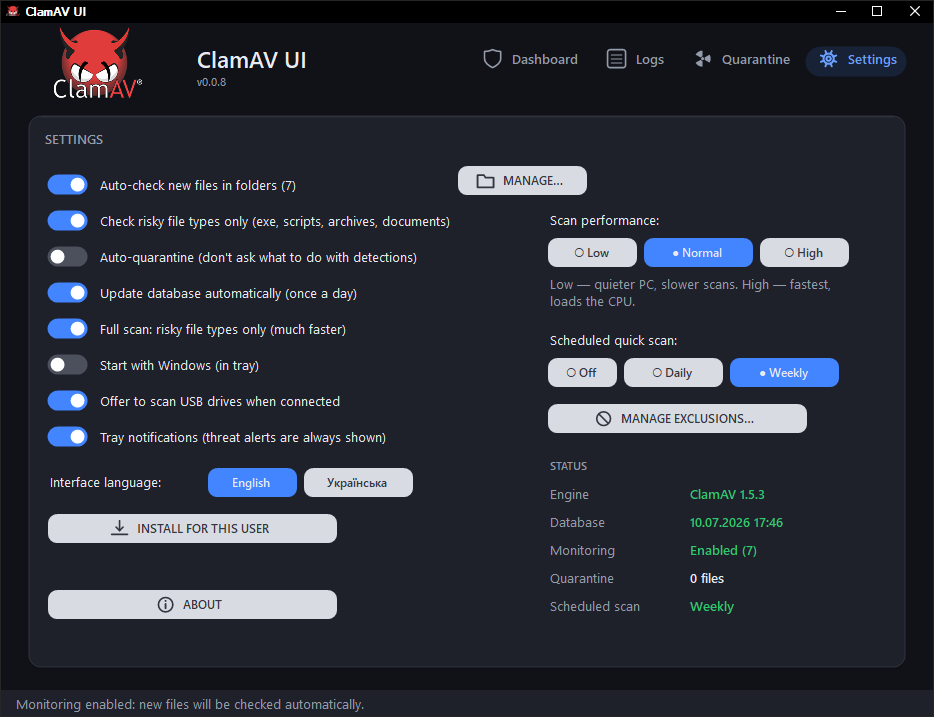
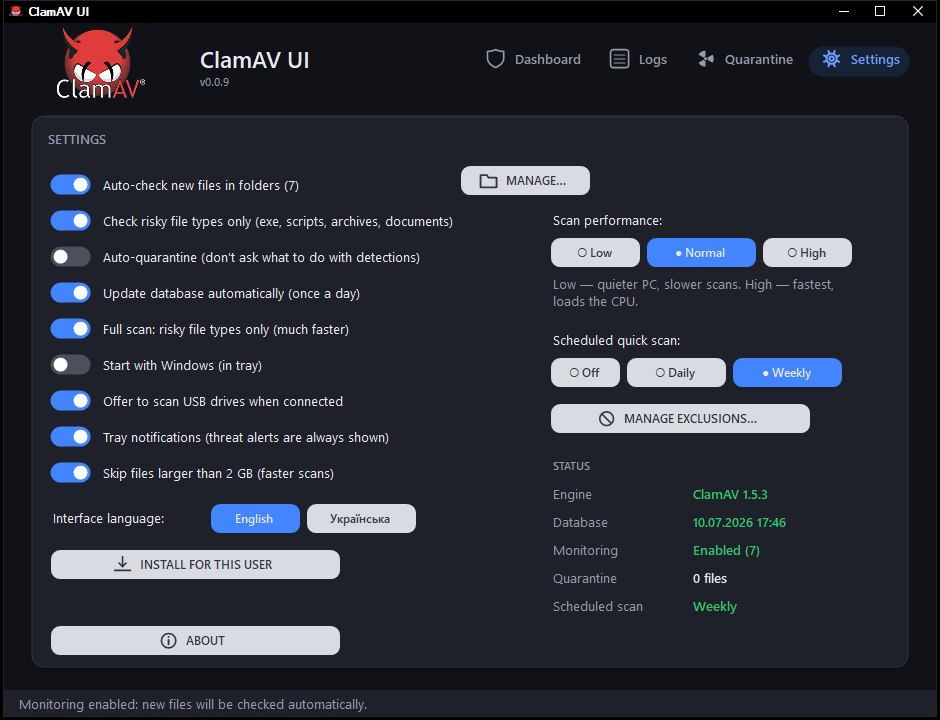
Add "Skip large files" option to settings and update scan limits
- Introduced a toggle in settings to skip files larger than 2 GB for faster scans.
- Updated scan limit arguments to accommodate the new setting.
- Enhanced UI to reflect the new option and its functionality.
- Added tests to verify behavior of scan limits with the new setting.

diff --git a/src/MainForm.Scan.cs b/src/MainForm.Scan.cs
@@ -58,12 +58,16 @@ namespace ClamAVUI
             return chkQuarantine.Checked ? " --move=" + Quote(quarDir) : "";
         }
 
-        // Limits so clamscan doesn't bog down on gigabyte-sized files and deep archives —
-        // those used to make a full scan "hang" on a single file for minutes. Malware that
-        // ClamAV catches is almost always small, so this barely affects detection.
-        internal static string ScanLimitsArg()
+        // Limits so clamscan doesn't bog down on deep archives. The per-file/scan
+        // size cap is user-controlled (the "skip large files" toggle): 2 GB when on,
+        // unlimited when off. The rest always apply — max-scantime caps time per
+        // object, so even a ~2 GB file can't hang the scan for minutes. (Before 0.0.9
+        // the cap was a fixed 50 MB.) Malware ClamAV catches is almost always small.
+        internal static string ScanLimitsArg(bool skipBig)
         {
-            return " --max-filesize=50M --max-scansize=100M --max-recursion=6 --max-files=5000"
+            string size = skipBig ? "2000M" : "0"; // 0 = unlimited in ClamAV
+            return " --max-filesize=" + size + " --max-scansize=" + size
+                 + " --max-recursion=6 --max-files=5000"
                  + " --max-scantime=20000"; // no more than 20s per object (skips "heavy" files faster)
         }
 
@@ -599,13 +603,14 @@ namespace ClamAVUI
 
         void WriteClamdConf()
         {
+            // same size cap as ScanLimitsArg: 2 GB when "skip large files" is on, else 0 = unlimited
+            string size = chkSkipBig.Checked ? "2000M" : "0";
             File.WriteAllText(Path.Combine(clamDir, "clamd.conf"),
                 "TCPSocket " + ClamdPort + "\r\n" +
                 "TCPAddr 127.0.0.1\r\n" +
                 "MaxThreads " + PerfMaxThreads(perfMode) + "\r\n" +
                 "DatabaseDirectory \"" + dbDir + "\"\r\n" +
-                // same limits as ScanLimitsArg uses for clamscan
-                "MaxScanSize 100M\r\nMaxFileSize 50M\r\nMaxRecursion 6\r\n" +
+                "MaxScanSize " + size + "\r\nMaxFileSize " + size + "\r\nMaxRecursion 6\r\n" +
                 "MaxFiles 5000\r\nMaxScanTime 20000\r\n" +
                 "IdleTimeout 300\r\nForeground yes\r\n",
                 new UTF8Encoding(false));
@@ -770,7 +775,7 @@ namespace ClamAVUI
             if (!haveDaemon)
             {
                 StartProcess(Path.Combine(clamDir, "clamscan.exe"),
-                    "--stdout -d " + Quote(dbDir) + MoveArg() + ScanLimitsArg()
+                    "--stdout -d " + Quote(dbDir) + MoveArg() + ScanLimitsArg(chkSkipBig.Checked)
                     + " --file-list=" + Quote(fullList), OnScanLine, OnScanExit);
                 return;
             }
@@ -813,7 +818,7 @@ namespace ClamAVUI
                     }
                     AppendLog(string.Format(Lang.T("log.daemonFallback"), msg), Theme.Warn);
                     StartProcess(Path.Combine(clamDir, "clamscan.exe"),
-                        "--stdout -d " + Quote(dbDir) + MoveArg() + ScanLimitsArg()
+                        "--stdout -d " + Quote(dbDir) + MoveArg() + ScanLimitsArg(chkSkipBig.Checked)
                         + " --file-list=" + Quote(fullList), OnScanLine, OnScanExit);
                 });
         }

diff --git a/src/MainForm.Ui.cs b/src/MainForm.Ui.cs
@@ -889,21 +889,26 @@ namespace ClamAVUI
             chkNotify.Checked = true;
             chkNotify.CheckedChanged += delegate { SaveSettings(); };
 
+            // caps the per-file scan size at 2 GB (see ScanLimitsArg/WriteClamdConf)
+            chkSkipBig = MakeCheck(Lang.T("settings.skipBig"), 20, 344);
+            chkSkipBig.Checked = true;
+            chkSkipBig.CheckedChanged += delegate { SaveSettings(); };
+
             langLabel = new Label();
             langLabel.Text = Lang.T("settings.language");
             langLabel.AutoSize = true;
             langLabel.ForeColor = Theme.Text;
             langLabel.BackColor = Theme.Card;
-            langLabel.Location = new Point(20, 358);
+            langLabel.Location = new Point(20, 394);
             btnLangEn = MakeButton("English", 90, Theme.Btn, Theme.BtnHot);
             btnLangEn.TextColor = Theme.BtnText;
             btnLangEn.BackColor = Theme.Card;
-            btnLangEn.SetBounds(180, 352, 90, 30);
+            btnLangEn.SetBounds(180, 388, 90, 30);
             btnLangEn.Click += delegate { SetLanguage(Lang.Language.English); };
             btnLangUk = MakeButton("Українська", 110, Theme.Btn, Theme.BtnHot);
             btnLangUk.TextColor = Theme.BtnText;
             btnLangUk.BackColor = Theme.Card;
-            btnLangUk.SetBounds(276, 352, 110, 30);
+            btnLangUk.SetBounds(276, 388, 110, 30);
             btnLangUk.Click += delegate { SetLanguage(Lang.Language.Ukrainian); };
             UpdateLangButtons();
 
@@ -990,7 +995,7 @@ namespace ClamAVUI
 
             btnInstall = MakeLightButton(Lang.T("btn.installPF"), Ico.Download);
             btnInstall.BackColor = Theme.Card;
-            btnInstall.SetBounds(20, 398, 290, 30);
+            btnInstall.SetBounds(20, 434, 290, 30);
             btnInstall.Visible = !IsInstalled;
             btnInstall.Click += delegate
             {
@@ -1007,7 +1012,7 @@ namespace ClamAVUI
             installedBadge.ForeColor = Theme.Good;
             installedBadge.BackColor = Theme.Card;
             installedBadge.AutoSize = true;
-            installedBadge.Location = new Point(20, 404);
+            installedBadge.Location = new Point(20, 440);
             installedBadge.Visible = IsInstalled;
             cardSettingsPanel.Controls.Add(installedBadge);
 
@@ -1015,7 +1020,7 @@ namespace ClamAVUI
             // (via this button, or automatically after --install elevates and fixes it).
             btnFixWinTemp = MakeLightButton(Lang.T("btn.fixWinTemp"), Ico.Unlock);
             btnFixWinTemp.BackColor = Theme.Card;
-            btnFixWinTemp.SetBounds(20, 436, 290, 30);
+            btnFixWinTemp.SetBounds(20, 472, 290, 30);
             btnFixWinTemp.Visible = !CanWatchDirectory(
                 Path.Combine(Environment.GetFolderPath(Environment.SpecialFolder.Windows), "Temp"));
             btnFixWinTemp.Click += delegate { FixWinTempAccess(); };
@@ -1023,7 +1028,7 @@ namespace ClamAVUI
             // About: description, quick-start steps, and project links (star / releases / follow)
             btnAbout = MakeLightButton(Lang.T("btn.about"), Ico.Info);
             btnAbout.BackColor = Theme.Card;
-            btnAbout.SetBounds(20, 474, 290, 30);
+            btnAbout.SetBounds(20, 510, 290, 30);
             btnAbout.Click += delegate { ShowAboutDialog(); };
 
             cardSettingsPanel.Controls.Add(chkMonitor);
@@ -1035,6 +1040,7 @@ namespace ClamAVUI
             cardSettingsPanel.Controls.Add(chkAutostart);
             cardSettingsPanel.Controls.Add(chkUsbPrompt);
             cardSettingsPanel.Controls.Add(chkNotify);
+            cardSettingsPanel.Controls.Add(chkSkipBig);
             cardSettingsPanel.Controls.Add(langLabel);
             cardSettingsPanel.Controls.Add(btnLangEn);
             cardSettingsPanel.Controls.Add(btnLangUk);
@@ -1445,6 +1451,7 @@ namespace ClamAVUI
             chkAutostart.Text = Lang.T("settings.autostart");
             chkUsbPrompt.Text = Lang.T("settings.usbPrompt");
             chkNotify.Text = Lang.T("settings.notifications");
+            chkSkipBig.Text = Lang.T("settings.skipBig");
             UpdateMonitorLabel();
             langLabel.Text = Lang.T("settings.language");
             UpdateLangButtons();

diff --git a/tests/UtilTests.cs b/tests/UtilTests.cs
@@ -110,13 +110,27 @@ namespace ClamAVUI.Tests
     {
         public static void TestContainsAllLimits()
         {
-            string args = MainForm.ScanLimitsArg();
+            string args = MainForm.ScanLimitsArg(true);
             Assert.True(args.Contains("--max-filesize="), "max-filesize present");
             Assert.True(args.Contains("--max-scansize="), "max-scansize present");
             Assert.True(args.Contains("--max-recursion="), "max-recursion present");
             Assert.True(args.Contains("--max-files="), "max-files present");
             Assert.True(args.Contains("--max-scantime="), "max-scantime present");
             Assert.True(args.StartsWith(" "), "starts with a separator space (concatenated after other args)");
+        }
+
+        public static void TestSkipBigCapsFileSize()
+        {
+            string on = MainForm.ScanLimitsArg(true);
+            Assert.True(on.Contains("--max-filesize=2000M"), "skip-big caps files at 2 GB");
+            Assert.True(on.Contains("--max-scansize=2000M"), "skip-big caps scan size at 2 GB");
+        }
+
+        public static void TestNoSkipBigMeansUnlimited()
+        {
+            string off = MainForm.ScanLimitsArg(false);
+            Assert.True(off.Contains("--max-filesize=0"), "off = unlimited file size (0)");
+            Assert.True(off.Contains("--max-scansize=0"), "off = unlimited scan size (0)");
         }
     }
 

diff --git a/src/MainForm.Settings.cs b/src/MainForm.Settings.cs
@@ -169,7 +169,7 @@ namespace ClamAVUI
 
             loadingSettings = true;
             bool monitor = false, quarantine = false, autoUpdate = true, riskyOnly = true, fullRisky = true;
-            bool usbPrompt = true, logDetails = false, notify = true;
+            bool usbPrompt = true, logDetails = false, notify = true, skipBig = true;
             bool hadSettings = File.Exists(settingsPath), modeAskedSeen = false;
             if (hadSettings)
             {
@@ -194,6 +194,7 @@ namespace ClamAVUI
                     else if (t == "usbprompt=0") usbPrompt = false;
                     else if (t == "logdetails=1") logDetails = true;
                     else if (t == "notify=0") notify = false;
+                    else if (t == "skipbig=0") skipBig = false;
                     else if (t == "perf=low") perfMode = 0;
                     else if (t == "perf=high") perfMode = 2;
                     else if (t == "sched=off") schedMode = 0;
@@ -287,6 +288,7 @@ namespace ClamAVUI
             chkUsbPrompt.Checked = usbPrompt;
             chkLogDetails.Checked = logDetails;
             chkNotify.Checked = notify;
+            chkSkipBig.Checked = skipBig;
             UpdatePerfButtons();  // reflect the loaded perf mode
             UpdateSchedButtons(); // reflect the loaded schedule
             chkMonitor.Checked = monitor; // CheckedChanged will start the watchers itself
@@ -342,6 +344,7 @@ namespace ClamAVUI
             sb.AppendLine("usbprompt=" + (chkUsbPrompt.Checked ? "1" : "0"));
             sb.AppendLine("logdetails=" + (chkLogDetails.Checked ? "1" : "0"));
             sb.AppendLine("notify=" + (chkNotify.Checked ? "1" : "0"));
+            sb.AppendLine("skipbig=" + (chkSkipBig.Checked ? "1" : "0"));
             sb.AppendLine("perf=" + (perfMode == 0 ? "low" : perfMode == 2 ? "high" : "normal"));
             sb.AppendLine("sched=" + (schedMode == 0 ? "off" : schedMode == 1 ? "daily" : "weekly"));
             sb.AppendLine("lastsched=" + lastScheduledScan.Ticks);

diff --git a/src/MainForm.Monitor.cs b/src/MainForm.Monitor.cs
@@ -386,7 +386,7 @@ namespace ClamAVUI
             // Paths are passed via --file-list: hundreds of files on the command line
             // (e.g. installing to Program Files) exceed the ~32K character limit and Process.Start fails
             var args = new StringBuilder();
-            args.Append("-r --stdout -d ").Append(Quote(dbDir)).Append(MoveArg()).Append(ExcludeArg()).Append(ScanLimitsArg());
+            args.Append("-r --stdout -d ").Append(Quote(dbDir)).Append(MoveArg()).Append(ExcludeArg()).Append(ScanLimitsArg(chkSkipBig.Checked));
             try
             {
                 string lp = Path.Combine(Path.GetTempPath(), "clamui-batch-" + Guid.NewGuid().ToString("N") + ".txt");

diff --git a/src/MainForm.cs b/src/MainForm.cs
@@ -114,7 +114,7 @@ namespace ClamAVUI
         RichTextBox log;
         Label statusLabel, heroTitle, heroSub, langLabel, lastActivityLabel, scanProgressLabel;
         ShieldIndicator shield;
-        Toggle chkAutostart, chkMonitor, chkQuarantine, chkAutoUpdate, chkRiskyOnly, chkFullRisky, chkUsbPrompt, chkLogDetails;
+        Toggle chkAutostart, chkMonitor, chkQuarantine, chkAutoUpdate, chkRiskyOnly, chkFullRisky, chkUsbPrompt, chkLogDetails, chkSkipBig;
         Toggle chkNotify; // tray notifications; threat alerts are shown regardless (see Notify)
         SlimMarquee progress;
         NotifyIcon tray;

diff --git a/src/Lang.cs b/src/Lang.cs
@@ -139,6 +139,7 @@ namespace ClamAVUI
             A("settings.language", "Interface language:", "Мова інтерфейсу:");
             A("settings.usbPrompt", "Offer to scan USB drives when connected", "Пропонувати перевірку USB-накопичувачів при підключенні");
             A("settings.notifications", "Tray notifications (threat alerts are always shown)", "Сповіщення в треї (про знайдені загрози — завжди)");
+            A("settings.skipBig", "Skip files larger than 2 GB (faster scans)", "Пропускати файли, більші за 2 ГБ (швидше сканування)");
             A("settings.status", "Status", "Стан");
             A("sstat.engine", "Engine", "Рушій");
             A("sstat.database", "Database", "Бази");

diff --git a/README.md b/README.md
@@ -40,6 +40,10 @@ anytime from Settings — no restart required.
   (exe, scripts, archives, documents) — the app builds the file list itself,
   so the scanner doesn't waste time on gigabyte-sized videos and images;
   scanning **all** files can be enabled in Settings
+- **Skip large files**: a Settings toggle (on by default) caps the per-file
+  scan size at 2 GB so scans don't crawl through huge VM images and media;
+  turn it off to scan files of any size (a 20 s-per-object time limit keeps
+  even those from hanging the scan)
 - **clamd engine while scanning**: before a manual scan the app starts the
   `clamd` daemon (the database loads into memory once, ~20-30s), scans with
   several parallel `clamdscan` processes, and stops the daemon immediately